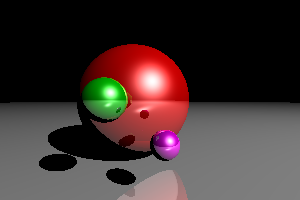
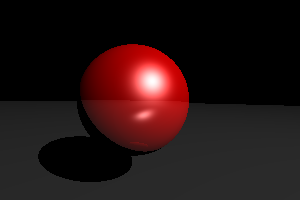
Sphere and Material Classes

diff --git a/ray_tracer.py b/ray_tracer.py
@@ -1,5 +1,7 @@
 import numpy as np
 import matplotlib.pyplot as plt
+from sphere import Sphere
+from material import Material
 
 def normalize(vector):
     return vector / np.linalg.norm(vector)
@@ -19,7 +21,7 @@ def sphere_intersect(center, radius, ray_origin, ray_direction):
     return None
 
 def nearest_intersected_object(objects, ray_origin, ray_direction):
-    distances = [sphere_intersect(obj['center'], obj['radius'], ray_origin, ray_direction) for obj in objects]
+    distances = [sphere_intersect(obj.center, obj.radius, ray_origin, ray_direction) for obj in objects]
     nearest_object = None
     min_distance = np.inf
     for index, distance in enumerate(distances):
@@ -38,12 +40,12 @@ ratio = float(width) / height
 screen = (-1, 1 / ratio, 1, -1 / ratio) # left, top, right, bottom
 
 light = { 'position': np.array([5, 5, 5]), 'ambient': np.array([1, 1, 1]), 'diffuse': np.array([1, 1, 1]), 'specular': np.array([1, 1, 1]) }
+m1 = Material(np.array([0.1, 0, 0]),np.array([0.7, 0, 0]),np.array([1, 1, 1]),100,0.5)
+m2 = Material(np.array([0.1, 0.1, 0.1]),np.array([0.1, 0.1, 0.1]),np.array([1, 1, 1]),100,0.5)
 
 objects = [
-    { 'center': np.array([-0.2, 0, -1]), 'radius': 0.7, 'ambient': np.array([0.1, 0, 0]), 'diffuse': np.array([0.7, 0, 0]), 'specular': np.array([1, 1, 1]), 'shininess': 100, 'reflection': 0.5 },
-    { 'center': np.array([0.1, -0.3, 0]), 'radius': 0.1, 'ambient': np.array([0.1, 0, 0.1]), 'diffuse': np.array([0.7, 0, 0.7]), 'specular': np.array([1, 1, 1]), 'shininess': 100, 'reflection': 0.5 },
-    { 'center': np.array([-0.3, 0, 0]), 'radius': 0.15, 'ambient': np.array([0, 0.1, 0]), 'diffuse': np.array([0, 0.6, 0]), 'specular': np.array([1, 1, 1]), 'shininess': 100, 'reflection': 0.5 },
-    { 'center': np.array([0, -9000, -2]), 'radius': 9000 - 0.7, 'ambient': np.array([0.1, 0.1, 0.1]), 'diffuse': np.array([0.6, 0.6, 0.6]), 'specular': np.array([1, 1, 1]), 'shininess': 100, 'reflection': 0.5 }
+    Sphere(center=np.array([-0.2, 0, -1]),radius=0.7,material = m1),
+    Sphere(center = np.array([-150, -9000, -3]), radius = 9000,material = m2)
 ]
 
 image = np.zeros((height, width, 3))
@@ -64,7 +66,7 @@ for i, y in enumerate(np.linspace(screen[1], screen[3], height)):
                 break
 
             intersection = origin + min_distance * direction
-            normal_to_surface = normalize(intersection - nearest_object['center'])
+            normal_to_surface = normalize(intersection - nearest_object.center)
             shifted_point = intersection + 1e-5 * normal_to_surface
             intersection_to_light = normalize(light['position'] - shifted_point)
 
@@ -78,19 +80,19 @@ for i, y in enumerate(np.linspace(screen[1], screen[3], height)):
             illumination = np.zeros((3))
 
             # ambiant
-            illumination += nearest_object['ambient'] * light['ambient']
+            illumination += nearest_object.material.ambient * light['ambient']
 
             # diffuse
-            illumination += nearest_object['diffuse'] * light['diffuse'] * np.dot(intersection_to_light, normal_to_surface)
+            illumination += nearest_object.material.diffuse * light['diffuse'] * np.dot(intersection_to_light, normal_to_surface)
 
             # specular
             intersection_to_camera = normalize(camera - intersection)
             H = normalize(intersection_to_light + intersection_to_camera)
-            illumination += nearest_object['specular'] * light['specular'] * np.dot(normal_to_surface, H) ** (nearest_object['shininess'] / 4)
+            illumination += nearest_object.material.specular * light['specular'] * np.dot(normal_to_surface, H) ** (nearest_object.material.shininess / 4)
 
             # reflection
             color += reflection * illumination
-            reflection *= nearest_object['reflection']
+            reflection *= nearest_object.material.reflection
 
             origin = shifted_point
             direction = reflected(direction, normal_to_surface)

diff --git a/material.py b/material.py
@@ -1,0 +1,9 @@
+import numpy as np
+
+class Material:
+    def __init__(self,ambient, diffuse, specular,shininess, reflection):
+        self.ambient = ambient
+        self.diffuse = diffuse
+        self.specular = specular
+        self.reflection = reflection
+        self.shininess = shininess

diff --git a/sphere.py b/sphere.py
@@ -1,0 +1,7 @@
+import numpy as np
+
+class Sphere:
+    def __init__(self,center, radius, material):
+        self.center = center
+        self.radius = radius
+        self.material = material
